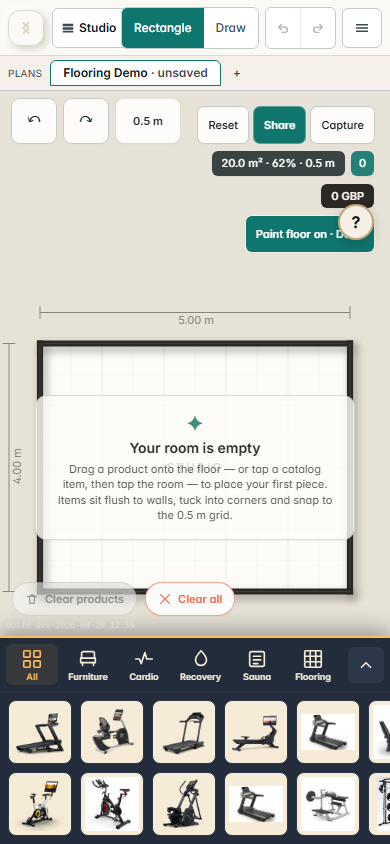
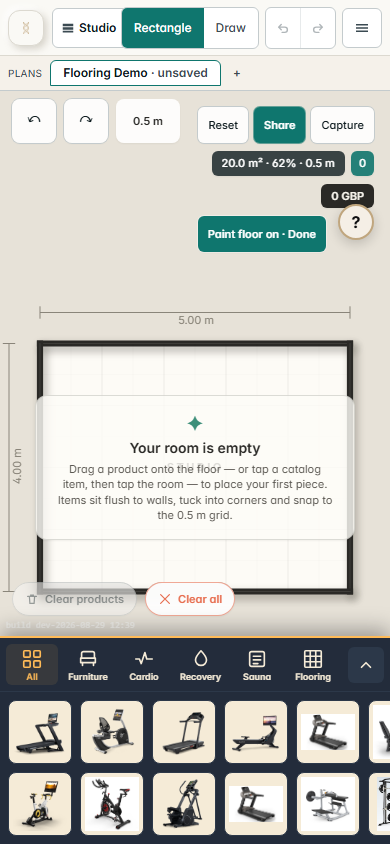
fix(designer): keep the "Paint floor on" chip clear of the ? button on phones
The chip sits in the top-right readout column; at 390 px the round help
button is at the same height and covered "Done". mr-12 below md.
Re-captured docs/sims-world-2026-08-29/after-followups (0 console errors).

Claude-Session: https://claude.ai/code/session_01JsikoTw2dJJqj335L3mdcN

Changed region(s): [[0.4923, 0.2464, 0.6769, 0.3081], [0.7385, 0.2464, 0.9538, 0.3081]]

diff --git a/src/components/RoomCanvas.tsx b/src/components/RoomCanvas.tsx
@@ -2289,7 +2289,9 @@ export function RoomCanvas({
             type="button"
             onClick={() => setTool('hand')}
             data-testid="floor-paint-hud"
-            className="pointer-events-auto min-h-[36px] rounded-md bg-ppw-teal px-2.5 py-1 text-[11px] font-semibold text-white shadow-sm ring-1 ring-white/40 hover:bg-ppw-teal/90"
+            // mr-12 on the phone: the round ? help button sits at this
+            // height on the right edge and would cover "Done".
+            className="pointer-events-auto mr-12 min-h-[36px] rounded-md bg-ppw-teal px-2.5 py-1 text-[11px] font-semibold text-white shadow-sm ring-1 ring-white/40 hover:bg-ppw-teal/90 md:mr-0"
             title="Paint floor is on: tap a tile, drag a rectangle, Shift fills the room. Tap here to stop painting."
           >
             Paint floor on · Done
